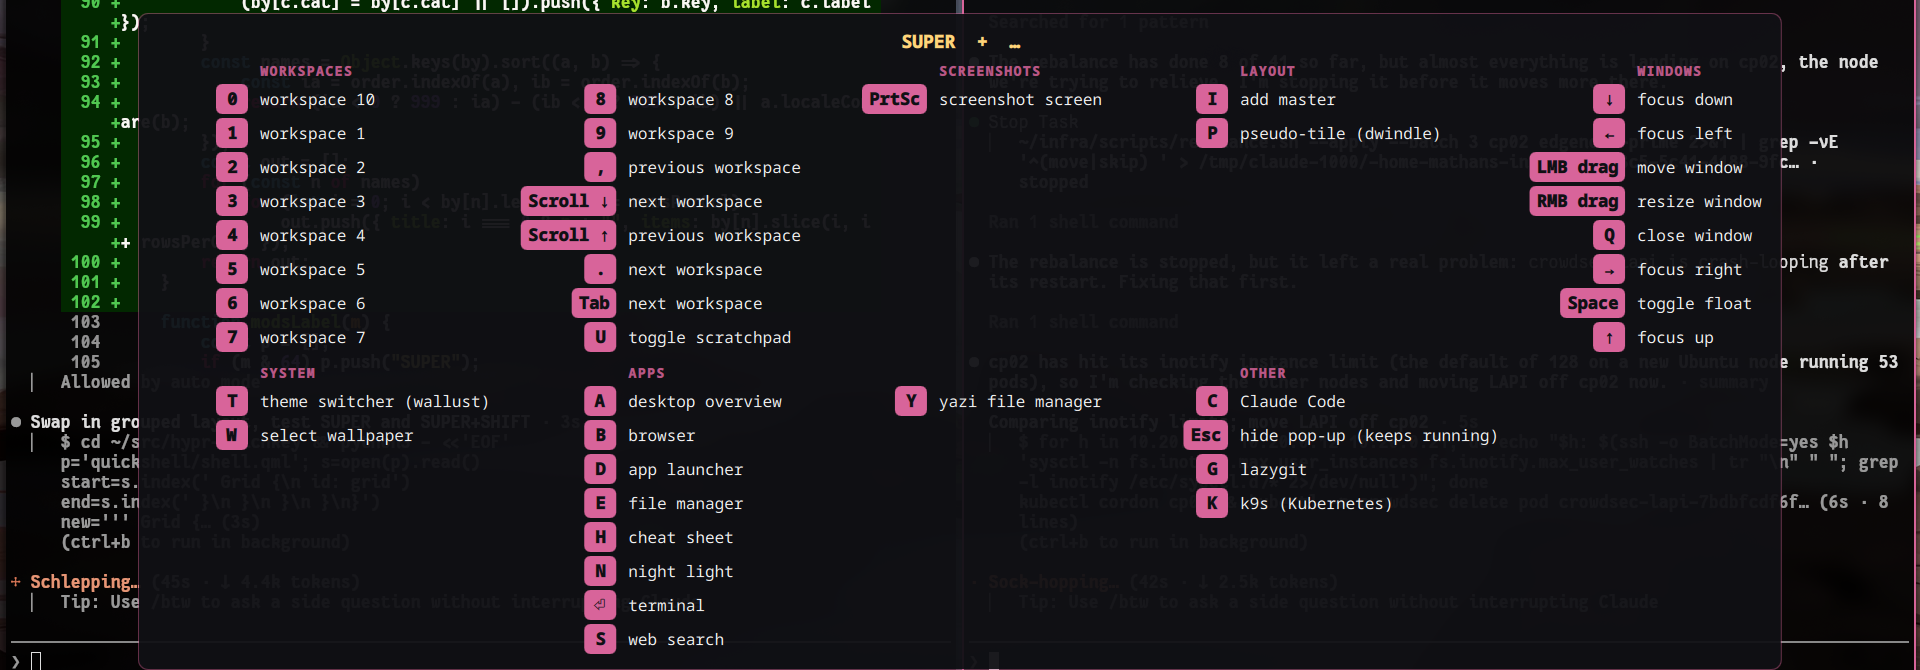
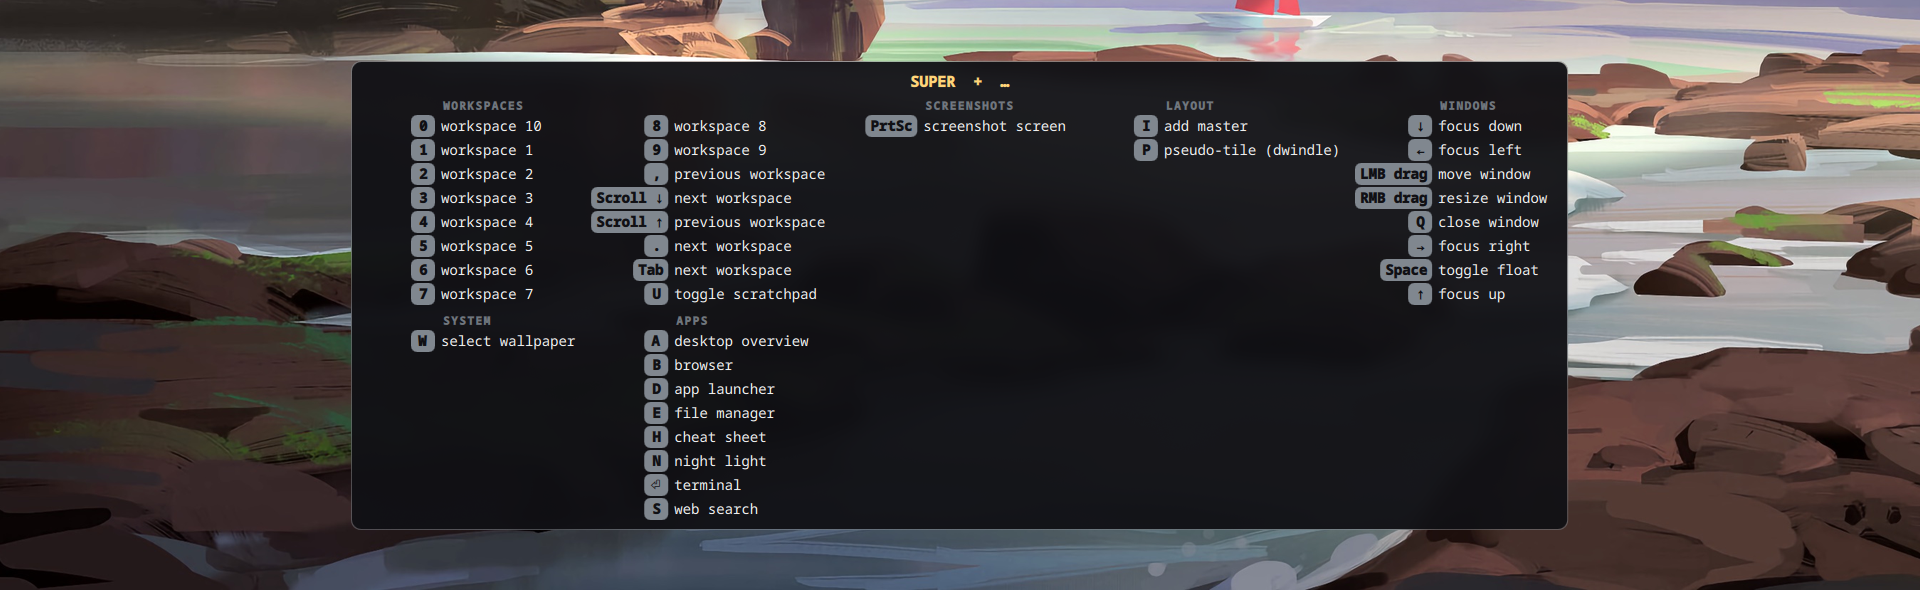
Update screenshots

diff --git a/README.md b/README.md
@@ -26,6 +26,8 @@ You set up 80 keybinds, and a week later you remember 12 of them. Cheat-sheet sc
 - **Multi-monitor**: shows on the screen you're working on
 - **Works with both config styles**: classic `hyprland.conf` and the new Lua config (0.57+)
 
+<p align="center"><img src="assets/screenshot-shift.png" alt="Holding SUPER + SHIFT narrows the list"><br><sub>Add <kbd>SHIFT</kbd> and the list narrows to <code>SUPER + SHIFT</code> binds.</sub></p>
+
 ## Install
 
 **Requirements:** Hyprland and [Quickshell](https://quickshell.org) (`qs`).
